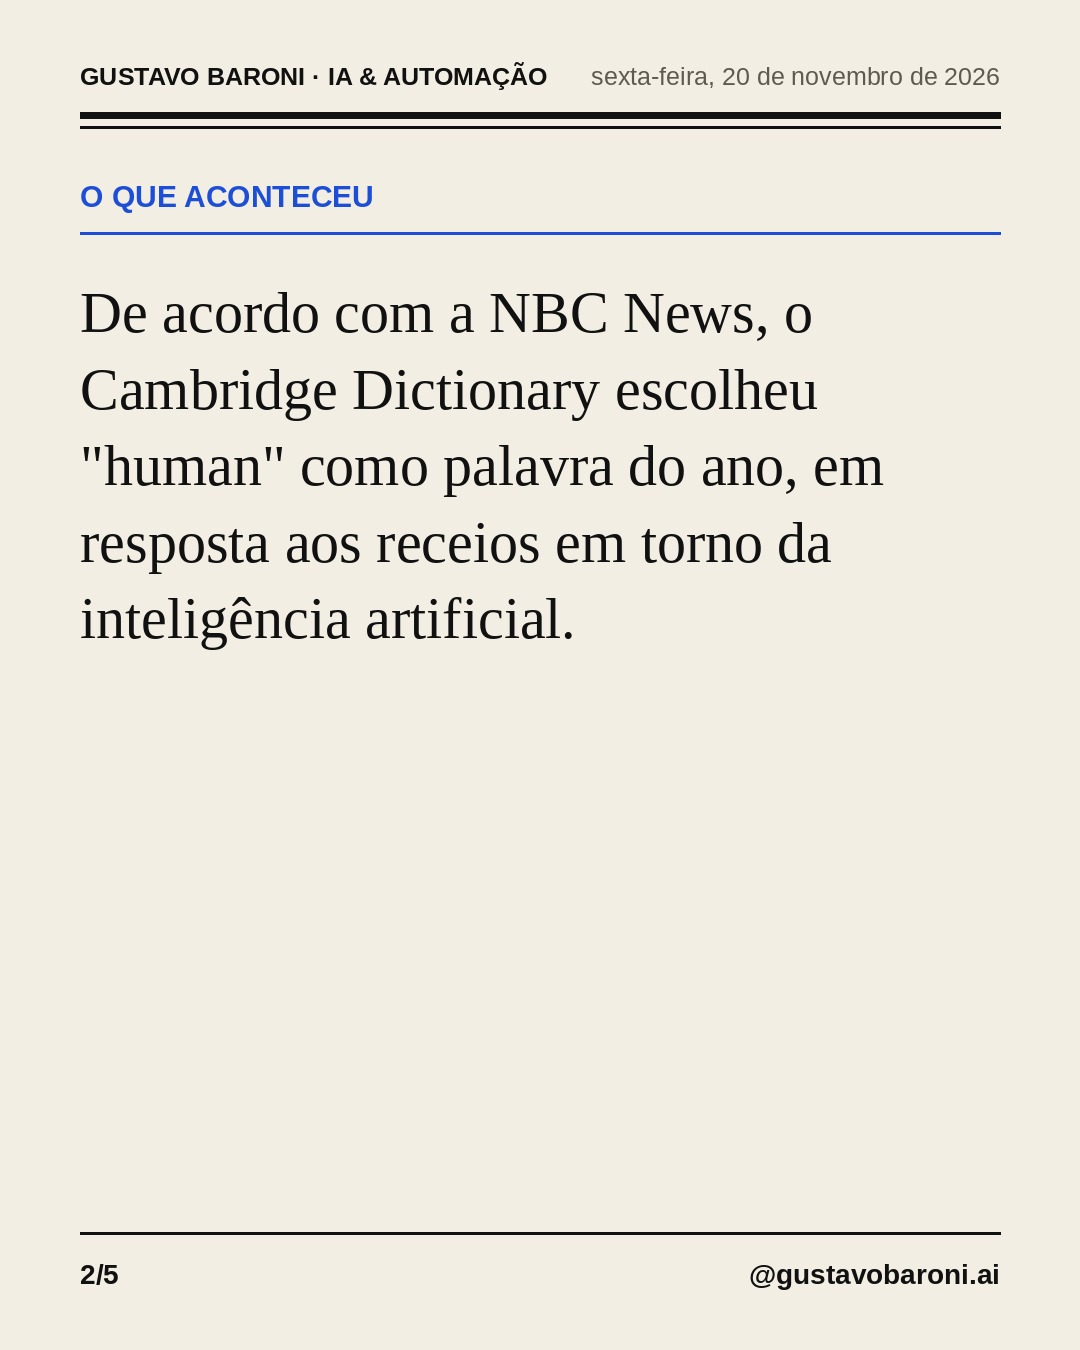
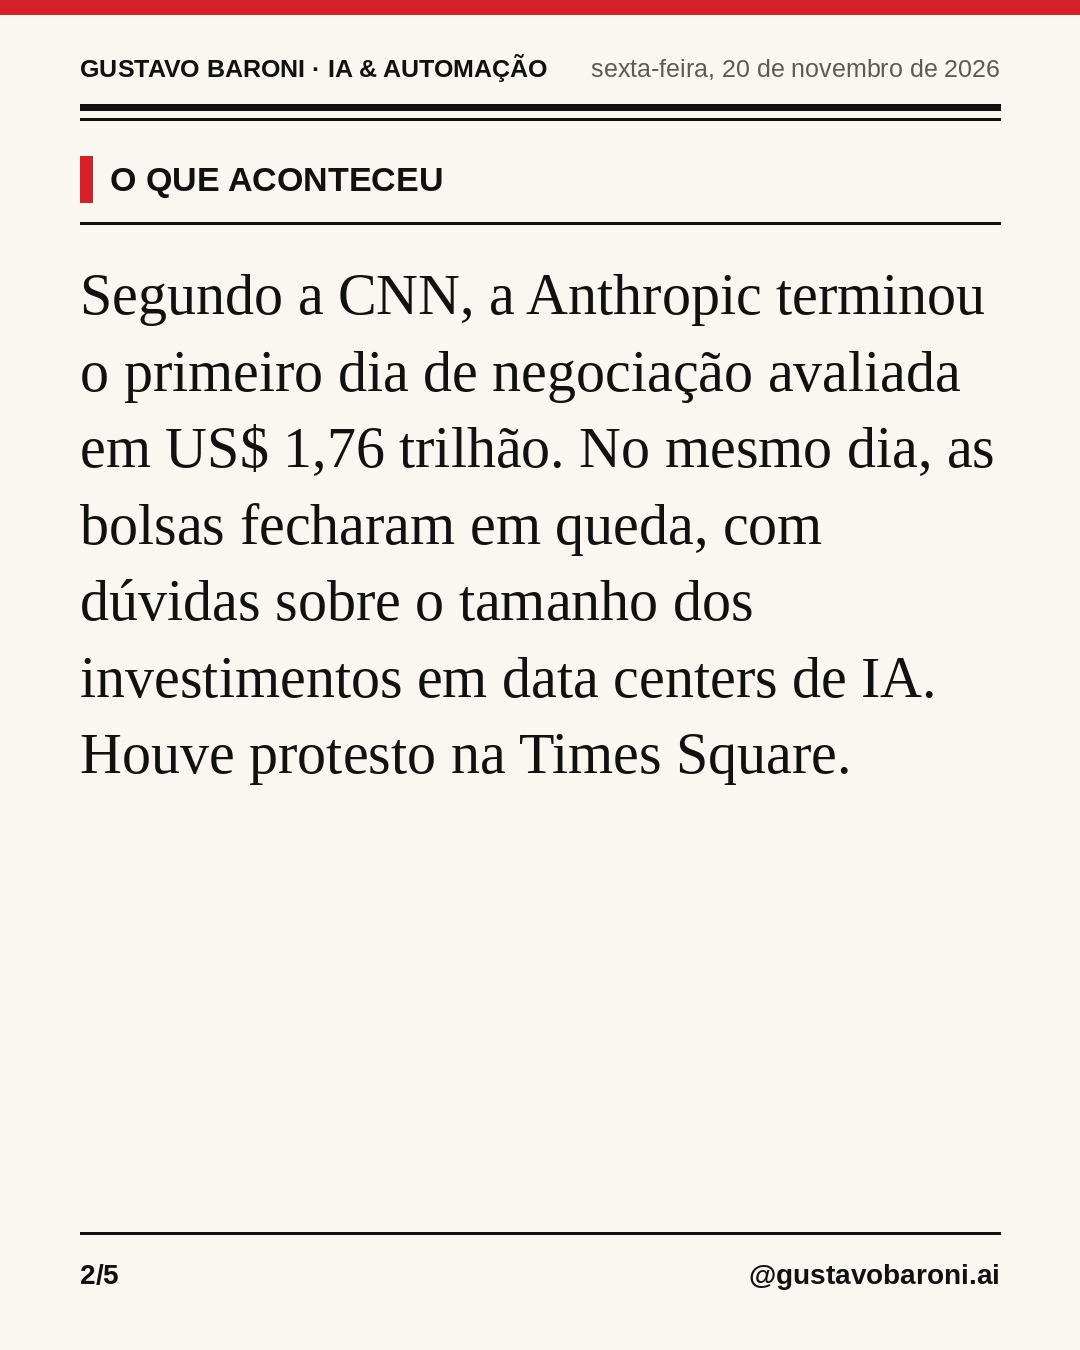
noticias: layout v2 (vermelho, paineis de numeros, foto) e 4 posts de hoje
Claude-Session: https://claude.ai/code/session_01R6zbTiCMQBufG89yWEojgJ

Changed region(s): [[0.0, 0.0, 1.0, 0.5911], [0.8861, 0.3111, 0.9167, 0.3422]]

diff --git a/noticias.py b/noticias.py
@@ -100,7 +100,7 @@ def coletar():
 PROMPT = """Você é o Gustavo Baroni, um construtor de sistemas, IA e automação para empresários brasileiros. Escreva em português do Brasil, primeira pessoa, direto, concreto, sem exagero e sem jargão.
 Abaixo estão notícias de IA das últimas 36 horas (com o "quente" = termômetro de repercussão). Escolha exatamente {n} notícias DIFERENTES entre si: priorize o que está bombando AGORA, as polêmicas e o que muda a vida de quem empreende ou constrói com IA. Evite notícia fraca, repetida ou só de produto menor.
 Para cada uma escreva um post em formato de jornal. REGRAS: use só fatos presentes no título/resumo dado; não invente números, nomes nem citações; se não souber, diga o que está em aberto. Não cite empresas ou produtos do Gustavo e não fale de agenda, horário ou salão. Não copie frases da fonte. Sem hashtag.
-Campos (JSON): manchete (até 90 caracteres, estilo manchete de jornal, forte e clara), subtitulo (até 140), contexto (até 330 caracteres: o que aconteceu, objetivo), importa (até 330: por que isso importa para quem empreende), leitura (até 380: a SUA leitura/conclusão como Gustavo, com opinião e um ponto que pouca gente está vendo), acao (até 300: o que o empresário pode fazer com isso esta semana), pergunta (até 110: pergunta aberta que gere comentário, tomando um lado), fonte (nome da fonte), url (link exato dado), legenda (2 a 3 frases curtas que prendem, terminando com a pergunta; sem hashtag).
+Campos (JSON): manchete (até 90 caracteres, estilo manchete de jornal, forte e clara), subtitulo (até 140), contexto (até 330 caracteres: o que aconteceu, objetivo), importa (até 330: por que isso importa para quem empreende), leitura (até 380: a SUA leitura/conclusão como Gustavo, com opinião e um ponto que pouca gente está vendo), acao (até 300: o que o empresário pode fazer com isso esta semana), pergunta (até 110: pergunta aberta que gere comentário, tomando um lado), numeros (lista de 0 a 3 objetos {{\"n\": número ou dado curto com unidade, ex. \"US$ 22 bi\", \"r\": o que o número mede, até 70 caracteres}} usando SOMENTE números que aparecem no título/resumo; se não houver, lista vazia), fonte (nome da fonte), url (link exato dado), legenda (2 a 3 frases curtas que prendem, terminando com a pergunta; sem hashtag).
 Responda SOMENTE um JSON no formato {{"posts":[{{...}},{{...}},{{...}}]}}.
 
 NOTÍCIAS:
@@ -227,14 +227,19 @@ def avatar(tam):
     return a.resize((tam, tam), Image.LANCZOS)
 
 
+VERM, PRETO, BRANCO = (214, 32, 39), (14, 14, 14), (255, 255, 255)
+PAPEL = (250, 247, 240)
+
+
 def moldura(n, total, data_txt):
     im = Image.new("RGB", (W, H), PAPEL)
     d = ImageDraw.Draw(im)
-    d.text((M, 62), "GUSTAVO BARONI · IA & AUTOMAÇÃO", font=f(SANS_B, 25), fill=TINTA)
+    d.rectangle((0, 0, W, 14), fill=VERM)
+    d.text((M, 54), "GUSTAVO BARONI · IA & AUTOMAÇÃO", font=f(SANS_B, 25), fill=TINTA)
     tw = d.textlength(data_txt, font=f(SANS, 25))
-    d.text((W - M - tw, 62), data_txt, font=f(SANS, 25), fill=CINZA)
-    d.rectangle((M, 112, W - M, 118), fill=TINTA)
-    d.rectangle((M, 126, W - M, 128), fill=TINTA)
+    d.text((W - M - tw, 54), data_txt, font=f(SANS, 25), fill=CINZA)
+    d.rectangle((M, 104, W - M, 110), fill=TINTA)
+    d.rectangle((M, 118, W - M, 120), fill=TINTA)
     d.rectangle((M, H - 118, W - M, H - 116), fill=TINTA)
     d.text((M, H - 92), f"{n}/{total}", font=f(SANS_B, 28), fill=TINTA)
     tw = d.textlength(HANDLE, font=f(SANS_B, 28))
@@ -242,52 +247,93 @@ def moldura(n, total, data_txt):
     return im, d
 
 
-def etiqueta(d, txt, x, y, preenchida=True):
-    fnt = f(SANS_B, 30)
-    w = d.textlength(txt, font=fnt) + 44
-    if preenchida:
-        d.rectangle((x, y, x + w, y + 58), fill=AZUL)
-        d.text((x + 22, y + 11), txt, font=fnt, fill=(255, 255, 255))
-    else:
-        d.text((x, y + 11), txt, font=fnt, fill=AZUL)
+def faixa(d, txt, y, cor=VERM, tcor=BRANCO, x=M):
+    fnt = f(SANS_B, 32)
+    w = d.textlength(txt, font=fnt) + 56
+    d.rectangle((x, y, x + w, y + 64), fill=cor)
+    d.text((x + 28, y + 14), txt, font=fnt, fill=tcor)
+    return x + w
+
+
+def rotulo(d, txt, y=156):
+    d.rectangle((M, y, M + 12, y + 46), fill=VERM)
+    d.text((M + 30, y + 4), txt, font=f(SANS_B, 34), fill=TINTA)
+    d.rectangle((M, y + 66, W - M, y + 68), fill=TINTA)
+
+
+def painel_numero(im, d, y, h, numero, legenda):
+    d.rounded_rectangle((M, y, W - M, y + h), radius=28, fill=PRETO)
+    d.rectangle((M, y + 36, M + 14, y + h - 36), fill=VERM)
+    fnt = None
+    for tam in range(min(190, int(h * 0.52)), 60, -6):
+        fnt = f(SERIF_B, tam)
+        if d.textlength(numero, font=fnt) <= W - 2 * M - 90:
+            break
+    d.text((M + 52, y + 30), numero, font=fnt, fill=BRANCO)
+    caixa(d, legenda, SANS_B, M + 52, y + 24 + fnt.size * 1.2, W - 2 * M - 100, h - fnt.size * 1.2 - 40, 32, 22, esp=1.2, cor=(235, 235, 235))
 
 
 def renderizar(p, pasta, prefixo, data_txt):
-    nomes = []
-    total = 5
+    nomes, total = [], 5
+    numeros = p.get("numeros") or []
     # 1 capa
     im, d = moldura(1, total, data_txt)
-    etiqueta(d, "ÚLTIMA HORA", M, 168)
-    y = caixa(d, p["manchete"], SERIF_B, M, 262, W - 2 * M, 560, 112, 60, esp=1.1)
-    d.rectangle((M, y + 22, M + 160, y + 28), fill=AZUL)
-    caixa(d, p["subtitulo"], SERIF_I, M, y + 60, W - 2 * M, 1130 - (y + 60), 44, 30, esp=1.25, cor=CINZA)
+    faixa(d, "● ÚLTIMA HORA", 156)
+    y = caixa(d, p["manchete"], SERIF_B, M, 252, W - 2 * M, 520, 100, 58, esp=1.08)
+    d.rectangle((M, y + 14, M + 170, y + 22), fill=VERM)
+    py = max(y + 52, 800)
+    if numeros:
+        painel_numero(im, d, py, 1130 - py, numeros[0]["n"], numeros[0]["r"])
+    else:
+        d.rounded_rectangle((M, py, W - M, 1130), radius=28, fill=PRETO)
+        d.rectangle((M, py + 36, M + 14, 1130 - 36), fill=VERM)
+        av = avatar(140)
+        im.paste(av, (M + 52, py + 36), av)
+        d.text((M + 222, py + 52), "Minha análise", font=f(SANS_B, 40), fill=BRANCO)
+        d.text((M + 222, py + 106), "Gustavo Baroni · deslize para ler", font=f(SANS, 30), fill=(210, 210, 210))
+        caixa(d, p["subtitulo"], SERIF_I, M + 52, py + 200, W - 2 * M - 100, 1130 - py - 230, 36, 26, esp=1.22, cor=(235, 235, 235))
     d.text((M, H - 190), f"Fonte: {p['fonte']}", font=f(SANS, 28), fill=CINZA)
-    tw = d.textlength("deslize →", font=f(SANS_B, 30))
-    d.text((W - M - tw, H - 190), "deslize →", font=f(SANS_B, 30), fill=AZUL)
+    tw = d.textlength("deslize →", font=f(SANS_B, 32))
+    d.text((W - M - tw, H - 192), "deslize →", font=f(SANS_B, 32), fill=VERM)
     im.save(os.path.join(pasta, f"{prefixo}_s1.jpg"), quality=92); nomes.append(f"{prefixo}_s1.jpg")
-    # 2-4 miolo
-    miolo = [("O QUE ACONTECEU", p["contexto"]), ("POR QUE IMPORTA", p["importa"]), ("MINHA LEITURA", p["leitura"])]
-    for k, (rot, txt) in enumerate(miolo, start=2):
-        im, d = moldura(k, total, data_txt)
-        etiqueta(d, rot, M, 168, preenchida=False)
-        d.rectangle((M, 232, W - M, 234), fill=AZUL)
-        topo = 280
-        if rot == "MINHA LEITURA":
-            im.paste(avatar(96), (M, 262), avatar(96))
-            d.text((M + 118, 280), "Gustavo Baroni", font=f(SANS_B, 34), fill=TINTA)
-            d.text((M + 118, 322), HANDLE, font=f(SANS, 26), fill=CINZA)
-            topo = 400
-        caixa(d, txt, SERIF, M, topo, W - 2 * M, H - 160 - topo, 58, 36, esp=1.32)
-        im.save(os.path.join(pasta, f"{prefixo}_s{k}.jpg"), quality=92); nomes.append(f"{prefixo}_s{k}.jpg")
+    # 2 o que aconteceu (+ números)
+    im, d = moldura(2, total, data_txt)
+    rotulo(d, "O QUE ACONTECEU")
+    ty = 262
+    if len(numeros) > 1:
+        for k, nm in enumerate(numeros[1:3]):
+            painel_numero(im, d, 262 + k * 270, 240, nm["n"], nm["r"])
+        ty = 262 + len(numeros[1:3]) * 270 + 10
+        caixa(d, p["contexto"], SERIF, M, ty, W - 2 * M, H - 140 - ty, 44, 30, esp=1.28)
+    else:
+        caixa(d, p["contexto"], SERIF, M, ty, W - 2 * M, H - 160 - ty, 58, 36, esp=1.32)
+    im.save(os.path.join(pasta, f"{prefixo}_s2.jpg"), quality=92); nomes.append(f"{prefixo}_s2.jpg")
+    # 3 por que importa (bloco destacado)
+    im, d = moldura(3, total, data_txt)
+    rotulo(d, "POR QUE IMPORTA")
+    d.rounded_rectangle((M, 262, W - M, H - 170), radius=28, fill=PRETO)
+    d.text((M + 44, 280), "\u201c", font=f(SERIF_B, 220), fill=VERM)
+    caixa(d, p["importa"], SERIF_B, M + 52, 470, W - 2 * M - 104, H - 170 - 470 - 40, 64, 34, esp=1.28, cor=BRANCO)
+    im.save(os.path.join(pasta, f"{prefixo}_s3.jpg"), quality=92); nomes.append(f"{prefixo}_s3.jpg")
+    # 4 minha leitura (foto grande)
+    im, d = moldura(4, total, data_txt)
+    rotulo(d, "MINHA LEITURA")
+    av = avatar(190)
+    im.paste(av, (M, 262), av)
+    d.ellipse((M - 6, 256, M + 196, 458), outline=VERM, width=6)
+    d.text((M + 230, 300), "Gustavo Baroni", font=f(SANS_B, 46), fill=TINTA)
+    d.text((M + 230, 360), HANDLE, font=f(SANS, 30), fill=CINZA)
+    faixa(d, "ANÁLISE", 408 - 12, x=M + 230)
+    caixa(d, p["leitura"], SERIF, M, 500, W - 2 * M, H - 160 - 500, 52, 34, esp=1.3)
+    im.save(os.path.join(pasta, f"{prefixo}_s4.jpg"), quality=92); nomes.append(f"{prefixo}_s4.jpg")
     # 5 ação + pergunta
     im, d = moldura(5, total, data_txt)
-    etiqueta(d, "O QUE FAZER ESTA SEMANA", M, 168, preenchida=False)
-    d.rectangle((M, 232, W - M, 234), fill=AZUL)
-    y = caixa(d, p["acao"], SERIF, M, 280, W - 2 * M, 430, 50, 34, esp=1.3)
-    d.rectangle((M, 770, W - M, 776), fill=TINTA)
-    caixa(d, p["pergunta"], SERIF_B, M, 810, W - 2 * M, 300, 62, 38, esp=1.18)
-    d.text((M, 1120), "Responde nos comentários. Eu leio todos.", font=f(SANS_B, 30), fill=AZUL)
-    d.text((M, 1168), "Segue para ver o que muda antes de virar tendência.", font=f(SANS, 28), fill=CINZA)
+    rotulo(d, "O QUE FAZER ESTA SEMANA")
+    caixa(d, p["acao"], SERIF, M, 262, W - 2 * M, 400, 50, 34, esp=1.3)
+    d.rounded_rectangle((M, 690, W - M, 1100), radius=28, fill=VERM)
+    caixa(d, p["pergunta"], SERIF_B, M + 44, 730, W - 2 * M - 88, 330, 64, 38, esp=1.16, cor=BRANCO)
+    d.text((M, 1130), "Responde nos comentários. Eu leio todos.", font=f(SANS_B, 30), fill=VERM)
+    d.text((M, 1176), "Segue para ver o que muda antes de virar tendência.", font=f(SANS, 28), fill=CINZA)
     im.save(os.path.join(pasta, f"{prefixo}_s5.jpg"), quality=92); nomes.append(f"{prefixo}_s5.jpg")
     return nomes
 
